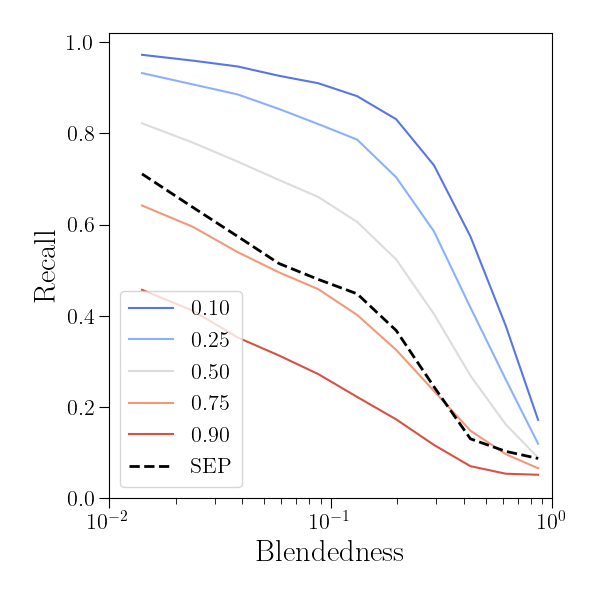
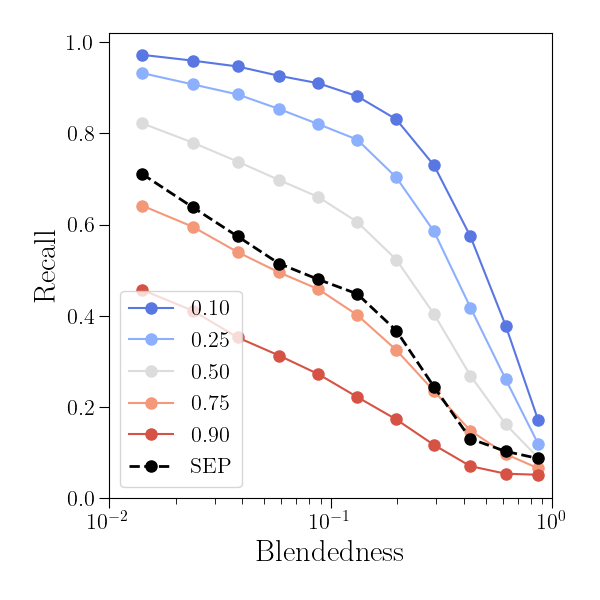
small changes after last round of reviews

diff --git a/experiment/scripts/figures/detection_figures.py b/experiment/scripts/figures/detection_figures.py
@@ -317,8 +317,8 @@ class BlendDetectionFigures(BlissFigure):
         # recall
         for tsh, out in ds["thresh_out"].items():
             color = plt.cm.coolwarm(tsh)
-            ax1.plot(bld_middle, out["recall"], c=color, label=f"${tsh:.2f}$")
-        ax1.plot(bld_middle, ds["sep"]["recall"], "--k", lw=2, label=r"\rm SEP")
+            ax1.plot(bld_middle, out["recall"], "-o", c=color, label=f"${tsh:.2f}$")
+        ax1.plot(bld_middle, ds["sep"]["recall"], "--ok", lw=2, label=r"\rm SEP")
         ax1.set_xlabel(r"\rm Blendedness")
         ax1.set_ylabel(r"\rm Recall")
         ax1.set_ylim(0, 1.02)
